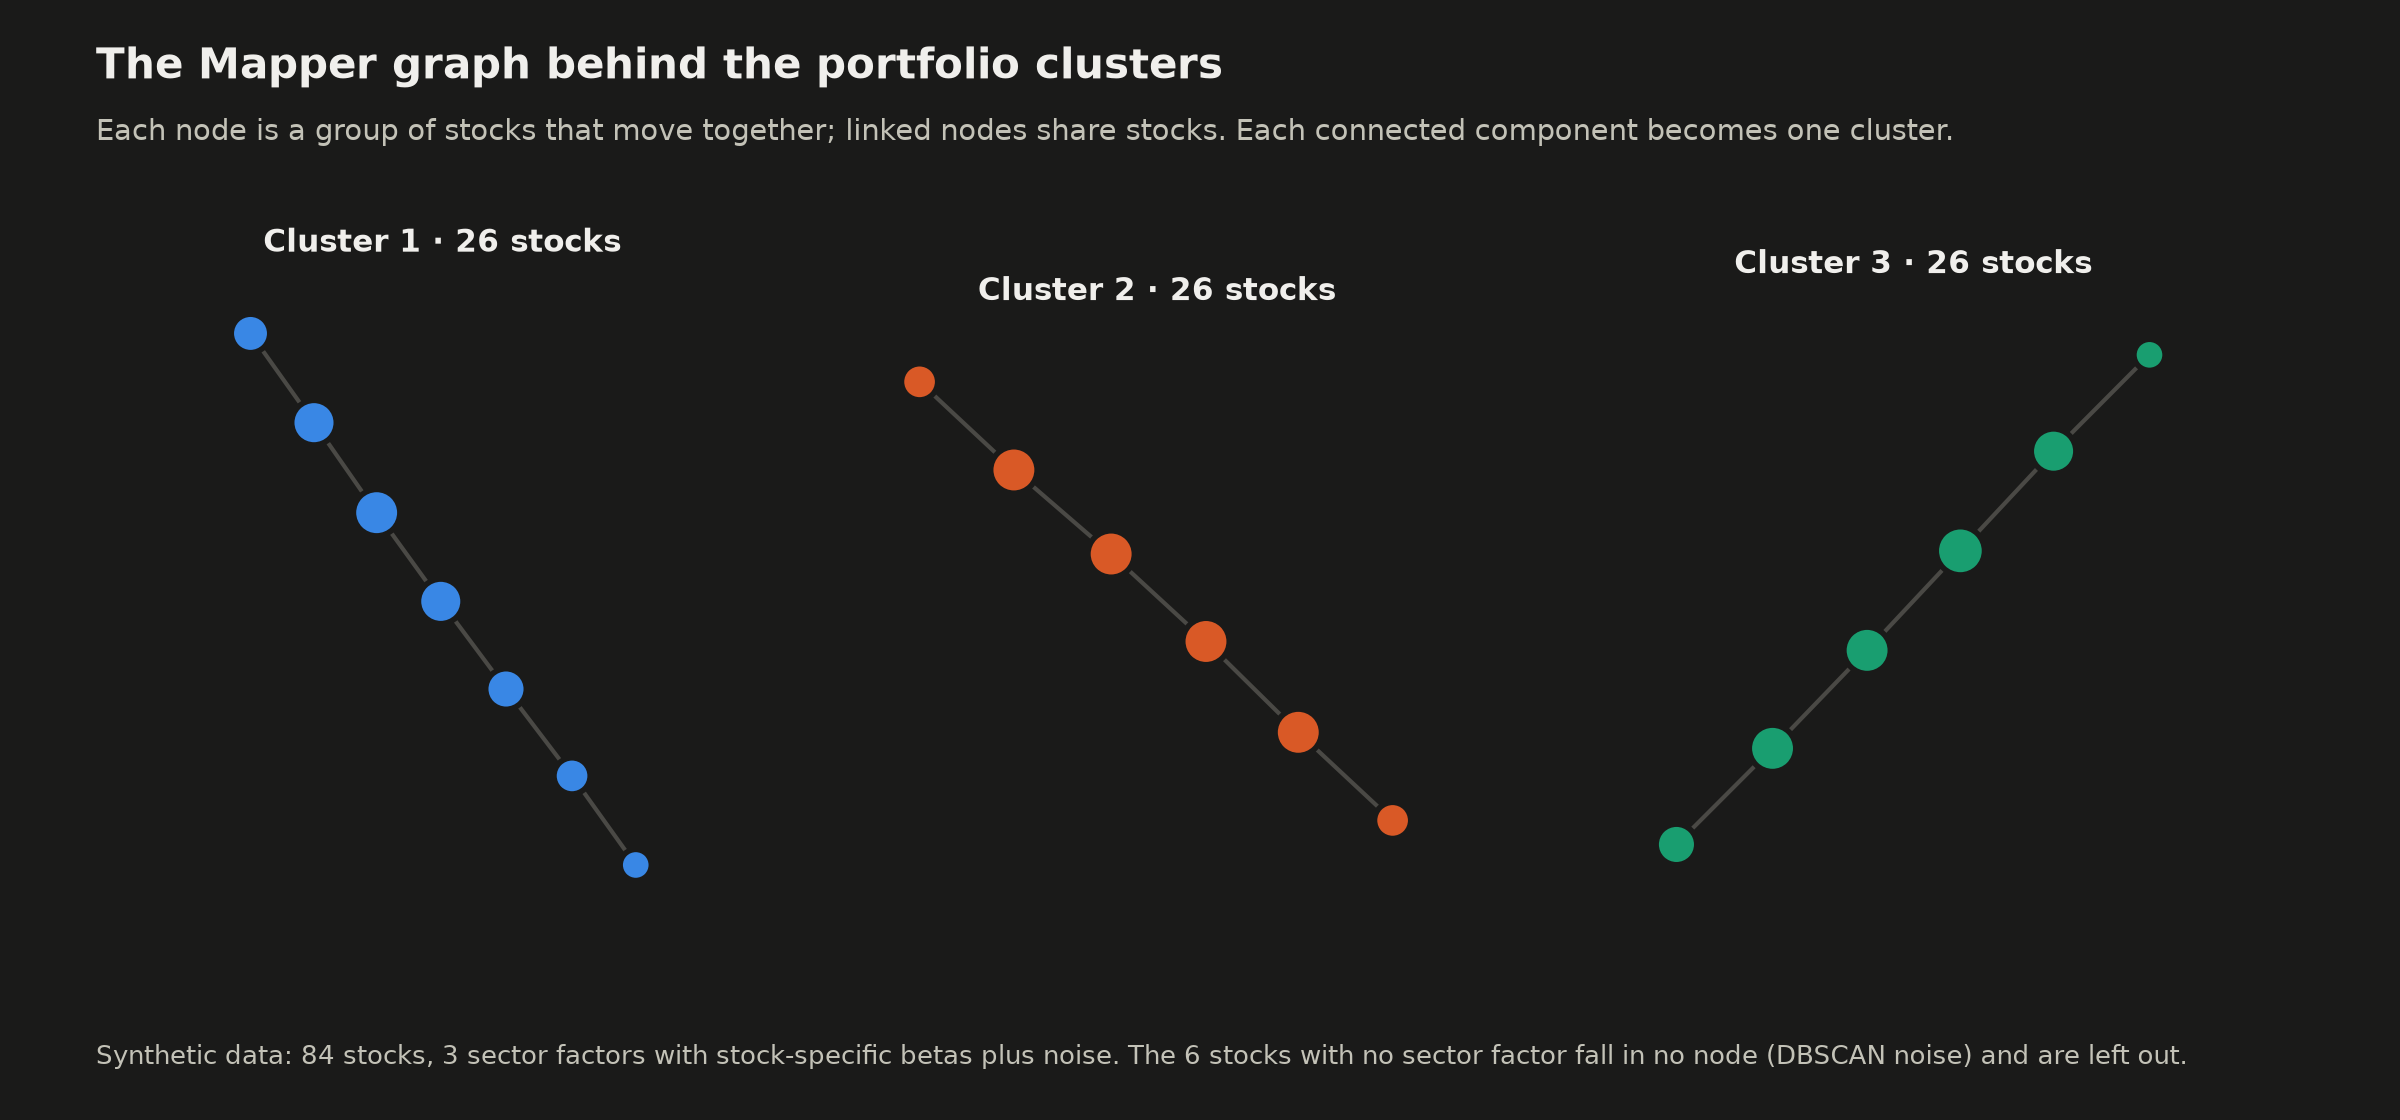
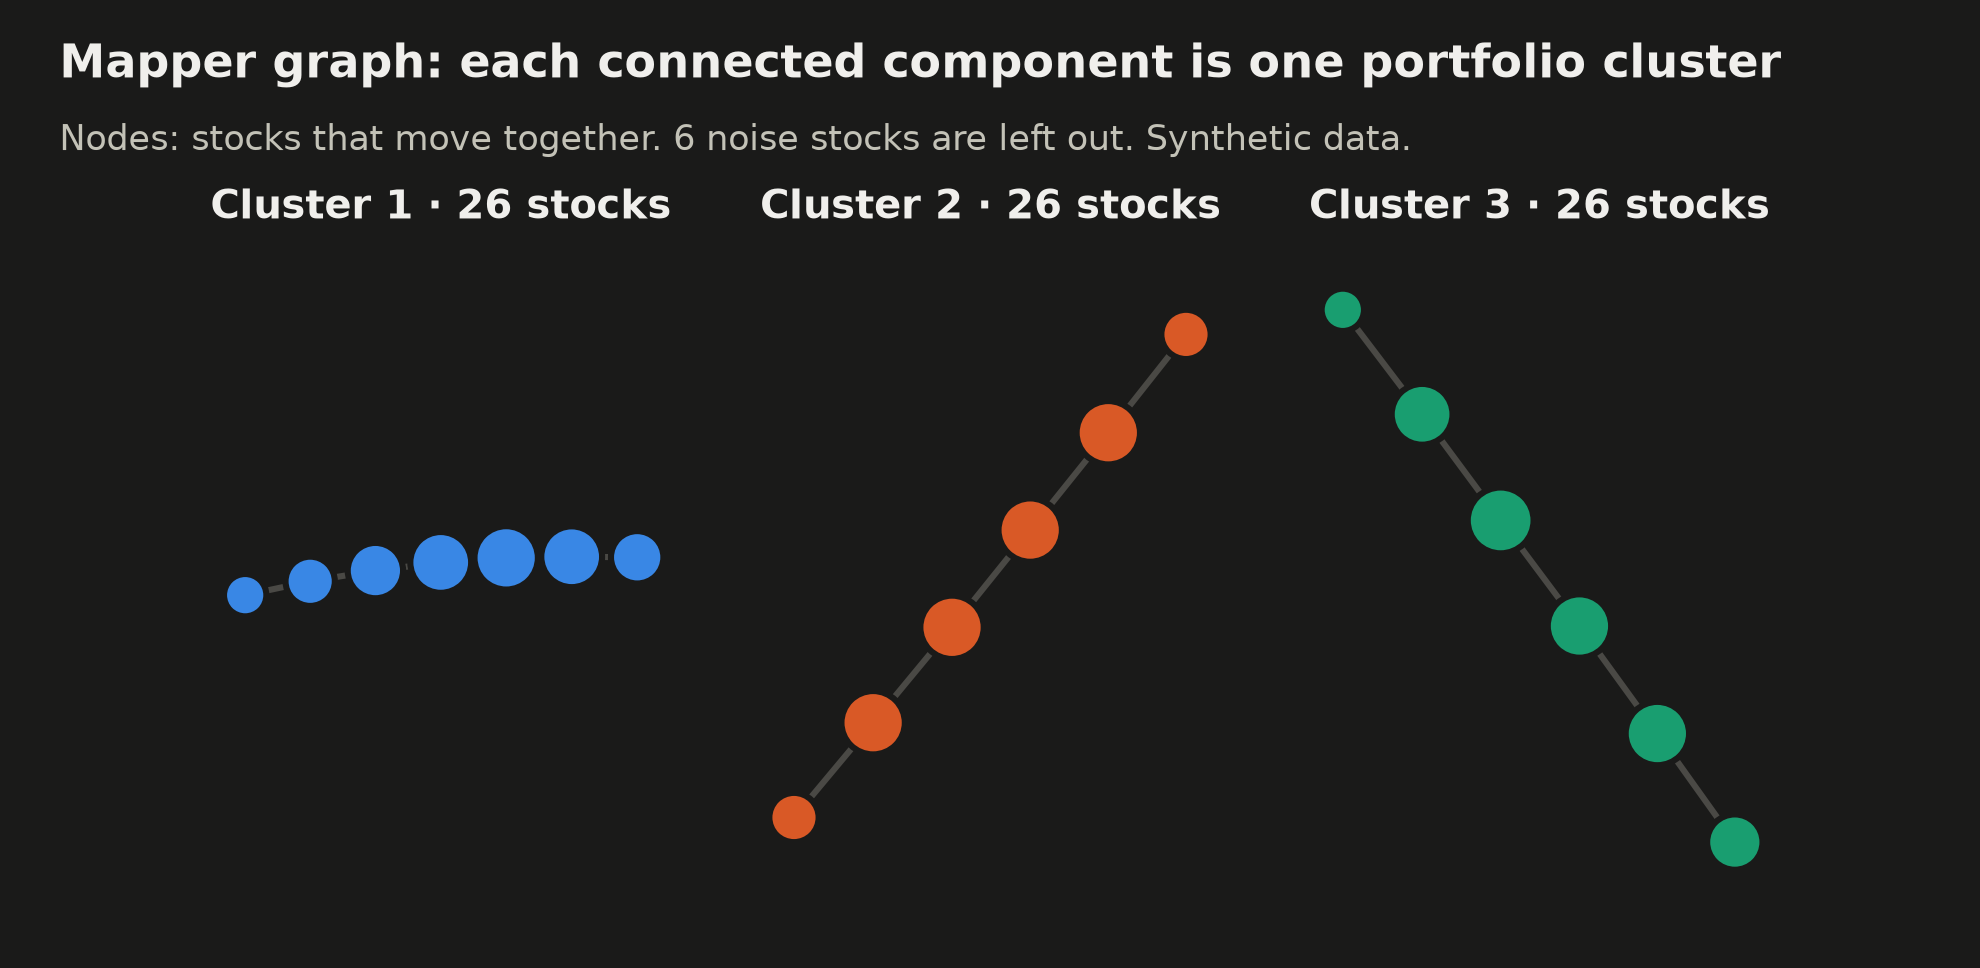
README: real backtest equity chart, more readable Mapper figure

diff --git a/scripts/plot_mapper.py b/scripts/plot_mapper.py
@@ -49,17 +49,17 @@ def synthetic_returns(sectors: int = 3, per_sector: int = 26, loners: int = 6, d
 
 
 def layout(graph: nx.Graph, components: list[set]) -> dict:
-    """Spring layout per component, components side by side, largest first."""
-    positions, x = {}, 0.0
-    for component in components:
+    """Each component in its own equal-width slot, scaled to fit and centred, largest first."""
+    positions = {}
+    for slot, component in enumerate(components):
         sub = graph.subgraph(component)
         pos = nx.kamada_kawai_layout(sub) if len(sub) > 2 else nx.spring_layout(sub, seed=3)
         coords = np.array(list(pos.values()))
-        span = np.ptp(coords, axis=0)
-        scale = 1.0 / max(span.max(), 1e-9)
-        for node, (px, py) in pos.items():
-            positions[node] = (x + (px - coords[:, 0].min()) * scale, (py - coords[:, 1].mean()) * scale)
-        x += span[0] * scale + 0.6
+        centre = (coords.max(axis=0) + coords.min(axis=0)) / 2
+        scale = 1.0 / max(np.ptp(coords, axis=0).max(), 1e-9)
+        for node, xy in pos.items():
+            x, y = (np.asarray(xy) - centre) * scale
+            positions[node] = (slot * 1.4 + x, y)
     return positions
 
 
@@ -82,36 +82,31 @@ def draw(theme: str, returns: pd.DataFrame, out: Path) -> None:
     clustered = {s for members in nodes.values() for s in members}
     outliers = [c for c in returns.columns if c not in clustered]
 
-    fig, ax = plt.subplots(figsize=(12, 5.6), dpi=200)
+    fig, ax = plt.subplots(figsize=(9, 4.4), dpi=220)
     fig.patch.set_facecolor(t["surface"])
     ax.set_facecolor(t["surface"])
     ax.axis("off")
 
-    nx.draw_networkx_edges(graph, positions, ax=ax, edge_color=t["muted"], width=1.5)
+    nx.draw_networkx_edges(graph, positions, ax=ax, edge_color=t["muted"], width=2)
+    label_y = max(y for _, y in positions.values()) + 0.12
     for index, component in enumerate(components):
         colour = t["series"][index] if index < len(t["series"]) else t["other"]
         members = sorted({s for node in component for s in nodes[node]})
-        sizes = [60 + 22 * len(nodes[node]) for node in component]
+        sizes = [90 + 34 * len(nodes[node]) for node in component]
         nx.draw_networkx_nodes(graph, positions, nodelist=list(component), ax=ax, node_color=colour,
                                node_size=sizes, edgecolors=t["surface"], linewidths=2)
         xs = [positions[n][0] for n in component]
         ys = [positions[n][1] for n in component]
         label = f"Cluster {index + 1} · {len(members)} stocks" if index < 3 else f"{len(members)} stocks"
-        ax.text(np.mean(xs), max(ys) + 0.14, label, ha="center", va="bottom",
-                color=t["primary"], fontsize=11, fontweight="semibold")
+        ax.text(np.mean(xs), label_y, label, ha="center", va="bottom",
+                color=t["primary"], fontsize=13, fontweight="semibold")
 
-    fig.text(0.04, 0.93, "The Mapper graph behind the portfolio clusters", color=t["primary"],
-             fontsize=15, fontweight="bold", ha="left")
-    fig.text(0.04, 0.875,
-             "Each node is a group of stocks that move together; linked nodes share stocks. "
-             "Each connected component becomes one cluster.",
-             color=t["secondary"], fontsize=10.5, ha="left")
-    fig.text(0.04, 0.05,
-             f"Synthetic data: {len(returns.columns)} stocks, 3 sector factors with stock-specific betas plus noise. "
-             + outlier_note(outliers),
-             color=t["secondary"], fontsize=9.5, ha="left")
-    ax.margins(x=0.04, y=0.18)
-    fig.subplots_adjust(left=0.03, right=0.97, top=0.82, bottom=0.11)
+    fig.text(0.03, 0.92, "Mapper graph: each connected component is one portfolio cluster",
+             color=t["primary"], fontsize=15, fontweight="bold", ha="left")
+    fig.text(0.03, 0.845, f"Nodes: stocks that move together. {len(outliers)} noise stocks are left out. Synthetic data.",
+             color=t["secondary"], fontsize=11.5, ha="left")
+    ax.margins(x=0.08, y=0.12)
+    fig.subplots_adjust(left=0.02, right=0.98, top=0.78, bottom=0.03)
     out.parent.mkdir(parents=True, exist_ok=True)
     fig.savefig(out, facecolor=t["surface"])
     plt.close(fig)

diff --git a/README.md b/README.md
@@ -11,7 +11,7 @@ The strategy is built on LEAN's Algorithm Framework. The logic is unit-tested, a
 
 <picture>
   <source media="(prefers-color-scheme: dark)" srcset="docs/mapper-graph-dark.png">
-  <img alt="Mapper graph of 84 synthetic stocks: three chains of linked nodes, one per sector, each becoming a portfolio cluster; six stocks with no sector factor are left out as noise" src="docs/mapper-graph-light.png">
+  <img alt="Mapper graph of 84 synthetic stocks: three chains of linked nodes, one per sector, each becoming a portfolio cluster; six noise stocks are left out" src="docs/mapper-graph-light.png">
 </picture>
 
 ## Why
@@ -50,6 +50,8 @@ All thresholds are parameters (see [`config.json`](TopologicalAlpha/config.json)
 ## Results
 
 QuantConnect cloud backtest, 2015-01-01 to 2025-09-30, $1,000,000, daily data, Interactive Brokers fees and 5 bps slippage. [Public backtest report](https://www.quantconnect.cloud/backtest/55a96f5a00e62b19d8770c6bde1fa15c/?theme=chrome).
+
+[![Strategy equity 2015-2025 and summary statistics from the QuantConnect backtest report](docs/backtest-equity.png)](https://www.quantconnect.cloud/backtest/55a96f5a00e62b19d8770c6bde1fa15c/?theme=chrome)
 
 | Metric | Value |
 | --- | --- |
